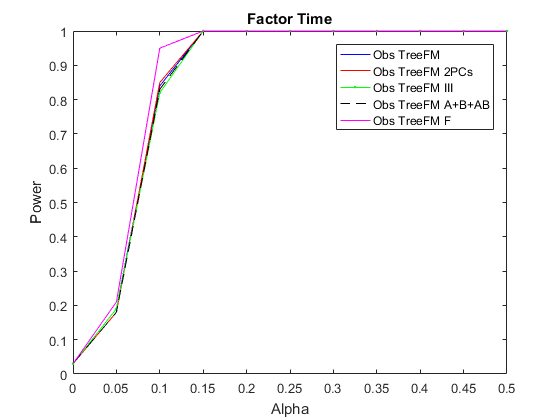
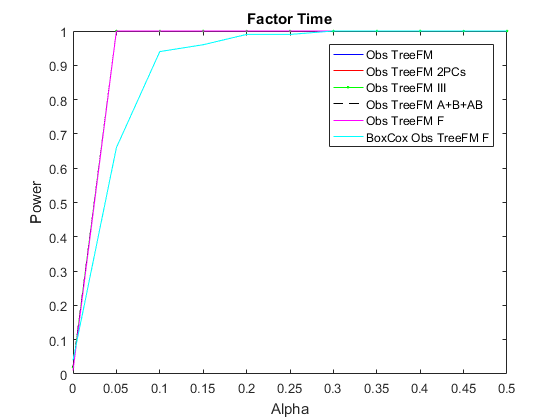
All computations finished

Changed region(s): [[0.1214, 0.0619, 0.3946, 0.8667], [0.425, 0.0619, 0.9107, 0.3405], [0.5768, 0.1238, 0.6071, 0.3095]]

diff --git a/html/CreatePlot.html b/html/CreatePlot.html
@@ -6,7 +6,7 @@
    <!--
 This HTML was auto-generated from MATLAB code.
 To make changes, update the MATLAB code and republish this document.
-      --><title>Plot of figures</title><meta name="generator" content="MATLAB 9.1"><link rel="schema.DC" href="http://purl.org/dc/elements/1.1/"><meta name="DC.date" content="2023-06-07"><meta name="DC.source" content="CreatePlot.m"><style type="text/css">
+      --><title>Plot of figures: uniform distribution</title><meta name="generator" content="MATLAB 9.1"><link rel="schema.DC" href="http://purl.org/dc/elements/1.1/"><meta name="DC.date" content="2023-07-04"><meta name="DC.source" content="CreatePlot.m"><style type="text/css">
 html,body,div,span,applet,object,iframe,h1,h2,h3,h4,h5,h6,p,blockquote,pre,a,abbr,acronym,address,big,cite,code,del,dfn,em,font,img,ins,kbd,q,s,samp,small,strike,strong,sub,sup,tt,var,b,u,i,center,dl,dt,dd,ol,ul,li,fieldset,form,label,legend,table,caption,tbody,tfoot,thead,tr,th,td{margin:0;padding:0;border:0;outline:0;font-size:100%;vertical-align:baseline;background:transparent}body{line-height:1}ol,ul{list-style:none}blockquote,q{quotes:none}blockquote:before,blockquote:after,q:before,q:after{content:'';content:none}:focus{outine:0}ins{text-decoration:none}del{text-decoration:line-through}table{border-collapse:collapse;border-spacing:0}
 
 html { min-height:100%; margin-bottom:1px; }
@@ -66,99 +66,99 @@ table td { padding:7px 5px; text-align:left; vertical-align:top; border:1px soli
 
 
 
-  </style></head><body><div class="content"><h1>Plot of figures</h1><!--introduction--><p>coded by: Jose Camacho Paez (<a href="mailto:josecamacho@ugr.es">josecamacho@ugr.es</a>) last modification: 05/Jun/2023</p><p>Copyright (C) 2023  University of Granada, Granada Copyright (C) 2023  Jose Camacho Paez</p><p>This program is free software: you can redistribute it and/or modify it under the terms of the GNU General Public License as published by the Free Software Foundation, either version 3 of the License, or (at your option) any later version.</p><p>This program is distributed in the hope that it will be useful, but WITHOUT ANY WARRANTY; without even the implied warranty of MERCHANTABILITY or FITNESS FOR A PARTICULAR PURPOSE.  See the GNU General Public License for more details.</p><p>You should have received a copy of the GNU General Public License along with this program.  If not, see <a href="http://www.gnu.org/licenses/">http://www.gnu.org/licenses/</a>.</p><!--/introduction--><h2>Contents</h2><div><ul><li><a href="#1">TN.xlsx</a></li><li><a href="#2">LB.xlsx</a></li><li><a href="#3">TN_balanced</a></li></ul></div><h2 id="1">TN.xlsx</h2><pre class="codeinput">load <span class="string">random_e1</span> <span class="string">e</span> <span class="string">alpha</span>
+  </style></head><body><div class="content"><h1>Plot of figures: uniform distribution</h1><!--introduction--><p>coded by: Jose Camacho Paez (<a href="mailto:josecamacho@ugr.es">josecamacho@ugr.es</a>) last modification: 05/Jul/2023</p><p>Copyright (C) 2023  University of Granada, Granada Copyright (C) 2023  Jose Camacho Paez</p><p>This program is free software: you can redistribute it and/or modify it under the terms of the GNU General Public License as published by the Free Software Foundation, either version 3 of the License, or (at your option) any later version.</p><p>This program is distributed in the hope that it will be useful, but WITHOUT ANY WARRANTY; without even the implied warranty of MERCHANTABILITY or FITNESS FOR A PARTICULAR PURPOSE.  See the GNU General Public License for more details.</p><p>You should have received a copy of the GNU General Public License along with this program.  If not, see <a href="http://www.gnu.org/licenses/">http://www.gnu.org/licenses/</a>.</p><!--/introduction--><h2>Contents</h2><div><ul><li><a href="#1">TN.xlsx</a></li><li><a href="#2">LB.xlsx</a></li><li><a href="#3">TN_balanced</a></li></ul></div><h2 id="1">TN.xlsx</h2><pre class="codeinput">load <span class="string">random_e1</span> <span class="string">e</span> <span class="string">alpha</span>
 
 <span class="comment">% Compare Interaction</span>
 
 i=1;
-figure, plot(alpha,e(1,:,i),<span class="string">'b'</span>); hold <span class="string">on</span>, plot(alpha,e(2,:,i),<span class="string">'r'</span>); plot(alpha,e(3,:,i),<span class="string">'g.-'</span>); plot(alpha,e(4,:,i),<span class="string">'k--'</span>); plot(alpha,e(5,:,i),<span class="string">'m'</span>);
+figure, plot(alpha,e(1,:,i),<span class="string">'b'</span>); hold <span class="string">on</span>, plot(alpha,e(2,:,i),<span class="string">'r'</span>); plot(alpha,e(3,:,i),<span class="string">'g.-'</span>); plot(alpha,e(4,:,i),<span class="string">'k--'</span>); plot(alpha,e(5,:,i),<span class="string">'m'</span>); plot(alpha,e(6,:,i),<span class="string">'c'</span>);
 xlabel(<span class="string">'Alpha'</span>),ylabel(<span class="string">'Power'</span>),title(<span class="string">'Interaction Time x Class'</span>)
-legend(<span class="string">'Obs TreeFM'</span>,<span class="string">'Obs TreeFM 2PCs'</span>,<span class="string">'Obs TreeFM III'</span>,<span class="string">'Obs TreeFM A+B+AB'</span>,<span class="string">'Obs TreeFM F'</span>)
+ legend(<span class="string">'Obs TreeFM'</span>,<span class="string">'Obs TreeFM 2PCs'</span>,<span class="string">'Obs TreeFM III'</span>,<span class="string">'Obs TreeFM A+B+AB'</span>,<span class="string">'Obs TreeFM F'</span>,<span class="string">'BoxCox Obs TreeFM F'</span>)
 
 <span class="comment">% Compare time</span>
 
 i=2;
-figure, plot(alpha,e(1,:,i),<span class="string">'b'</span>); hold <span class="string">on</span>, plot(alpha,e(2,:,i),<span class="string">'r'</span>); plot(alpha,e(3,:,i),<span class="string">'g.-'</span>); plot(alpha,e(4,:,i),<span class="string">'k--'</span>); plot(alpha,e(5,:,i),<span class="string">'m'</span>);
+figure, plot(alpha,e(1,:,i),<span class="string">'b'</span>); hold <span class="string">on</span>, plot(alpha,e(2,:,i),<span class="string">'r'</span>); plot(alpha,e(3,:,i),<span class="string">'g.-'</span>); plot(alpha,e(4,:,i),<span class="string">'k--'</span>); plot(alpha,e(5,:,i),<span class="string">'m'</span>); plot(alpha,e(6,:,i),<span class="string">'c'</span>);
 xlabel(<span class="string">'Alpha'</span>),ylabel(<span class="string">'Power'</span>),title(<span class="string">'Factor Time'</span>)
-legend(<span class="string">'Obs TreeFM'</span>,<span class="string">'Obs TreeFM 2PCs'</span>,<span class="string">'Obs TreeFM III'</span>,<span class="string">'Obs TreeFM A+B+AB'</span>,<span class="string">'Obs TreeFM F'</span>)
+ legend(<span class="string">'Obs TreeFM'</span>,<span class="string">'Obs TreeFM 2PCs'</span>,<span class="string">'Obs TreeFM III'</span>,<span class="string">'Obs TreeFM A+B+AB'</span>,<span class="string">'Obs TreeFM F'</span>,<span class="string">'BoxCox Obs TreeFM F'</span>)
 
 <span class="comment">% Compare class</span>
 
 i=3;
-figure, plot(alpha,e(1,:,i),<span class="string">'b'</span>); hold <span class="string">on</span>, plot(alpha,e(2,:,i),<span class="string">'r'</span>); plot(alpha,e(3,:,i),<span class="string">'g.-'</span>); plot(alpha,e(4,:,i),<span class="string">'k--'</span>); plot(alpha,e(5,:,i),<span class="string">'m'</span>);
+figure, plot(alpha,e(1,:,i),<span class="string">'b'</span>); hold <span class="string">on</span>, plot(alpha,e(2,:,i),<span class="string">'r'</span>); plot(alpha,e(3,:,i),<span class="string">'g.-'</span>); plot(alpha,e(4,:,i),<span class="string">'k--'</span>); plot(alpha,e(5,:,i),<span class="string">'m'</span>); plot(alpha,e(6,:,i),<span class="string">'c'</span>);
 xlabel(<span class="string">'Alpha'</span>),ylabel(<span class="string">'Power'</span>),title(<span class="string">'Factor Class'</span>)
-legend(<span class="string">'Obs TreeFM'</span>,<span class="string">'Obs TreeFM 2PCs'</span>,<span class="string">'Obs TreeFM III'</span>,<span class="string">'Obs TreeFM A+B+AB'</span>,<span class="string">'Obs TreeFM F'</span>)
+ legend(<span class="string">'Obs TreeFM'</span>,<span class="string">'Obs TreeFM 2PCs'</span>,<span class="string">'Obs TreeFM III'</span>,<span class="string">'Obs TreeFM A+B+AB'</span>,<span class="string">'Obs TreeFM F'</span>,<span class="string">'BoxCox Obs TreeFM F'</span>)
 
 <span class="comment">% Compare individual</span>
 
 i=4;
-figure, plot(alpha,e(1,:,i),<span class="string">'b'</span>); hold <span class="string">on</span>, plot(alpha,e(2,:,i),<span class="string">'r'</span>); plot(alpha,e(3,:,i),<span class="string">'g.-'</span>); plot(alpha,e(4,:,i),<span class="string">'k--'</span>); plot(alpha,e(5,:,i),<span class="string">'m'</span>);
+figure, plot(alpha,e(1,:,i),<span class="string">'b'</span>); hold <span class="string">on</span>, plot(alpha,e(2,:,i),<span class="string">'r'</span>); plot(alpha,e(3,:,i),<span class="string">'g.-'</span>); plot(alpha,e(4,:,i),<span class="string">'k--'</span>); plot(alpha,e(5,:,i),<span class="string">'m'</span>); plot(alpha,e(6,:,i),<span class="string">'c'</span>);
 xlabel(<span class="string">'Alpha'</span>),ylabel(<span class="string">'Power'</span>),title(<span class="string">'Factor Individual'</span>)
-legend(<span class="string">'Obs TreeFM'</span>,<span class="string">'Obs TreeFM 2PCs'</span>,<span class="string">'Obs TreeFM III'</span>,<span class="string">'Obs TreeFM A+B+AB'</span>,<span class="string">'Obs TreeFM F'</span>)
+ legend(<span class="string">'Obs TreeFM'</span>,<span class="string">'Obs TreeFM 2PCs'</span>,<span class="string">'Obs TreeFM III'</span>,<span class="string">'Obs TreeFM A+B+AB'</span>,<span class="string">'Obs TreeFM F'</span>,<span class="string">'BoxCox Obs TreeFM F'</span>)
 </pre><img vspace="5" hspace="5" src="CreatePlot_01.png" alt=""> <img vspace="5" hspace="5" src="CreatePlot_02.png" alt=""> <img vspace="5" hspace="5" src="CreatePlot_03.png" alt=""> <img vspace="5" hspace="5" src="CreatePlot_04.png" alt=""> <h2 id="2">LB.xlsx</h2><pre class="codeinput">load <span class="string">random_e2</span> <span class="string">e</span> <span class="string">alpha</span>
 
 <span class="comment">% Compare Interaction</span>
 
 i=1;
-figure, plot(alpha,e(1,:,i),<span class="string">'b'</span>); hold <span class="string">on</span>, plot(alpha,e(2,:,i),<span class="string">'r'</span>); plot(alpha,e(3,:,i),<span class="string">'g.-'</span>); plot(alpha,e(4,:,i),<span class="string">'k--'</span>); plot(alpha,e(5,:,i),<span class="string">'m'</span>);
+figure, plot(alpha,e(1,:,i),<span class="string">'b'</span>); hold <span class="string">on</span>, plot(alpha,e(2,:,i),<span class="string">'r'</span>); plot(alpha,e(3,:,i),<span class="string">'g.-'</span>); plot(alpha,e(4,:,i),<span class="string">'k--'</span>); plot(alpha,e(5,:,i),<span class="string">'m'</span>); plot(alpha,e(6,:,i),<span class="string">'c'</span>);
 xlabel(<span class="string">'Alpha'</span>),ylabel(<span class="string">'Power'</span>),title(<span class="string">'Interaction Time x Class'</span>)
-legend(<span class="string">'Obs TreeFM'</span>,<span class="string">'Obs TreeFM 2PCs'</span>,<span class="string">'Obs TreeFM III'</span>,<span class="string">'Obs TreeFM A+B+AB'</span>,<span class="string">'Obs TreeFM F'</span>)
+ legend(<span class="string">'Obs TreeFM'</span>,<span class="string">'Obs TreeFM 2PCs'</span>,<span class="string">'Obs TreeFM III'</span>,<span class="string">'Obs TreeFM A+B+AB'</span>,<span class="string">'Obs TreeFM F'</span>,<span class="string">'BoxCox Obs TreeFM F'</span>)
 
 <span class="comment">% Compare time</span>
 
 i=2;
-figure, plot(alpha,e(1,:,i),<span class="string">'b'</span>); hold <span class="string">on</span>, plot(alpha,e(2,:,i),<span class="string">'r'</span>); plot(alpha,e(3,:,i),<span class="string">'g.-'</span>); plot(alpha,e(4,:,i),<span class="string">'k--'</span>); plot(alpha,e(5,:,i),<span class="string">'m'</span>);
+figure, plot(alpha,e(1,:,i),<span class="string">'b'</span>); hold <span class="string">on</span>, plot(alpha,e(2,:,i),<span class="string">'r'</span>); plot(alpha,e(3,:,i),<span class="string">'g.-'</span>); plot(alpha,e(4,:,i),<span class="string">'k--'</span>); plot(alpha,e(5,:,i),<span class="string">'m'</span>); plot(alpha,e(6,:,i),<span class="string">'c'</span>);
 xlabel(<span class="string">'Alpha'</span>),ylabel(<span class="string">'Power'</span>),title(<span class="string">'Factor Time'</span>)
-legend(<span class="string">'Obs TreeFM'</span>,<span class="string">'Obs TreeFM 2PCs'</span>,<span class="string">'Obs TreeFM III'</span>,<span class="string">'Obs TreeFM A+B+AB'</span>,<span class="string">'Obs TreeFM F'</span>)
+ legend(<span class="string">'Obs TreeFM'</span>,<span class="string">'Obs TreeFM 2PCs'</span>,<span class="string">'Obs TreeFM III'</span>,<span class="string">'Obs TreeFM A+B+AB'</span>,<span class="string">'Obs TreeFM F'</span>,<span class="string">'BoxCox Obs TreeFM F'</span>)
 
 <span class="comment">% Compare class</span>
 
 i=3;
-figure, plot(alpha,e(1,:,i),<span class="string">'b'</span>); hold <span class="string">on</span>, plot(alpha,e(2,:,i),<span class="string">'r'</span>); plot(alpha,e(3,:,i),<span class="string">'g.-'</span>); plot(alpha,e(4,:,i),<span class="string">'k--'</span>); plot(alpha,e(5,:,i),<span class="string">'m'</span>);
+figure, plot(alpha,e(1,:,i),<span class="string">'b'</span>); hold <span class="string">on</span>, plot(alpha,e(2,:,i),<span class="string">'r'</span>); plot(alpha,e(3,:,i),<span class="string">'g.-'</span>); plot(alpha,e(4,:,i),<span class="string">'k--'</span>); plot(alpha,e(5,:,i),<span class="string">'m'</span>); plot(alpha,e(6,:,i),<span class="string">'c'</span>);
 xlabel(<span class="string">'Alpha'</span>),ylabel(<span class="string">'Power'</span>),title(<span class="string">'Factor Class'</span>)
-legend(<span class="string">'Obs TreeFM'</span>,<span class="string">'Obs TreeFM 2PCs'</span>,<span class="string">'Obs TreeFM III'</span>,<span class="string">'Obs TreeFM A+B+AB'</span>,<span class="string">'Obs TreeFM F'</span>)
+ legend(<span class="string">'Obs TreeFM'</span>,<span class="string">'Obs TreeFM 2PCs'</span>,<span class="string">'Obs TreeFM III'</span>,<span class="string">'Obs TreeFM A+B+AB'</span>,<span class="string">'Obs TreeFM F'</span>,<span class="string">'BoxCox Obs TreeFM F'</span>)
 
 <span class="comment">% Compare individual</span>
 
 i=4;
-figure, plot(alpha,e(1,:,i),<span class="string">'b'</span>); hold <span class="string">on</span>, plot(alpha,e(2,:,i),<span class="string">'r'</span>); plot(alpha,e(3,:,i),<span class="string">'g.-'</span>); plot(alpha,e(4,:,i),<span class="string">'k--'</span>); plot(alpha,e(5,:,i),<span class="string">'m'</span>);
+figure, plot(alpha,e(1,:,i),<span class="string">'b'</span>); hold <span class="string">on</span>, plot(alpha,e(2,:,i),<span class="string">'r'</span>); plot(alpha,e(3,:,i),<span class="string">'g.-'</span>); plot(alpha,e(4,:,i),<span class="string">'k--'</span>); plot(alpha,e(5,:,i),<span class="string">'m'</span>); plot(alpha,e(6,:,i),<span class="string">'c'</span>);
 xlabel(<span class="string">'Alpha'</span>),ylabel(<span class="string">'Power'</span>),title(<span class="string">'Factor Individual'</span>)
-legend(<span class="string">'Obs TreeFM'</span>,<span class="string">'Obs TreeFM 2PCs'</span>,<span class="string">'Obs TreeFM III'</span>,<span class="string">'Obs TreeFM A+B+AB'</span>,<span class="string">'Obs TreeFM F'</span>)
+ legend(<span class="string">'Obs TreeFM'</span>,<span class="string">'Obs TreeFM 2PCs'</span>,<span class="string">'Obs TreeFM III'</span>,<span class="string">'Obs TreeFM A+B+AB'</span>,<span class="string">'Obs TreeFM F'</span>,<span class="string">'BoxCox Obs TreeFM F'</span>)
 </pre><img vspace="5" hspace="5" src="CreatePlot_05.png" alt=""> <img vspace="5" hspace="5" src="CreatePlot_06.png" alt=""> <img vspace="5" hspace="5" src="CreatePlot_07.png" alt=""> <img vspace="5" hspace="5" src="CreatePlot_08.png" alt=""> <h2 id="3">TN_balanced</h2><pre class="codeinput">load <span class="string">random_e3</span> <span class="string">e</span> <span class="string">alpha</span>
 
 <span class="comment">% Compare Interaction</span>
 
 i=1;
-figure, plot(alpha,e(1,:,i),<span class="string">'b'</span>); hold <span class="string">on</span>, plot(alpha,e(2,:,i),<span class="string">'r'</span>); plot(alpha,e(3,:,i),<span class="string">'g.-'</span>); plot(alpha,e(4,:,i),<span class="string">'k--'</span>); plot(alpha,e(5,:,i),<span class="string">'m'</span>);
+figure, plot(alpha,e(1,:,i),<span class="string">'b'</span>); hold <span class="string">on</span>, plot(alpha,e(2,:,i),<span class="string">'r'</span>); plot(alpha,e(3,:,i),<span class="string">'g.-'</span>); plot(alpha,e(4,:,i),<span class="string">'k--'</span>); plot(alpha,e(5,:,i),<span class="string">'m'</span>); plot(alpha,e(6,:,i),<span class="string">'c'</span>);
 xlabel(<span class="string">'Alpha'</span>),ylabel(<span class="string">'Power'</span>),title(<span class="string">'Interaction Time x Class'</span>)
-legend(<span class="string">'Obs TreeFM'</span>,<span class="string">'Obs TreeFM 2PCs'</span>,<span class="string">'Obs TreeFM III'</span>,<span class="string">'Obs TreeFM A+B+AB'</span>,<span class="string">'Obs TreeFM F'</span>)
+ legend(<span class="string">'Obs TreeFM'</span>,<span class="string">'Obs TreeFM 2PCs'</span>,<span class="string">'Obs TreeFM III'</span>,<span class="string">'Obs TreeFM A+B+AB'</span>,<span class="string">'Obs TreeFM F'</span>,<span class="string">'BoxCox Obs TreeFM F'</span>)
 
 <span class="comment">% Compare time</span>
 
 i=2;
-figure, plot(alpha,e(1,:,i),<span class="string">'b'</span>); hold <span class="string">on</span>, plot(alpha,e(2,:,i),<span class="string">'r'</span>); plot(alpha,e(3,:,i),<span class="string">'g.-'</span>); plot(alpha,e(4,:,i),<span class="string">'k--'</span>); plot(alpha,e(5,:,i),<span class="string">'m'</span>);
+figure, plot(alpha,e(1,:,i),<span class="string">'b'</span>); hold <span class="string">on</span>, plot(alpha,e(2,:,i),<span class="string">'r'</span>); plot(alpha,e(3,:,i),<span class="string">'g.-'</span>); plot(alpha,e(4,:,i),<span class="string">'k--'</span>); plot(alpha,e(5,:,i),<span class="string">'m'</span>); plot(alpha,e(6,:,i),<span class="string">'c'</span>);
 xlabel(<span class="string">'Alpha'</span>),ylabel(<span class="string">'Power'</span>),title(<span class="string">'Factor Time'</span>)
-legend(<span class="string">'Obs TreeFM'</span>,<span class="string">'Obs TreeFM 2PCs'</span>,<span class="string">'Obs TreeFM III'</span>,<span class="string">'Obs TreeFM A+B+AB'</span>,<span class="string">'Obs TreeFM F'</span>)
+ legend(<span class="string">'Obs TreeFM'</span>,<span class="string">'Obs TreeFM 2PCs'</span>,<span class="string">'Obs TreeFM III'</span>,<span class="string">'Obs TreeFM A+B+AB'</span>,<span class="string">'Obs TreeFM F'</span>,<span class="string">'BoxCox Obs TreeFM F'</span>)
 
 <span class="comment">% Compare class</span>
 
 i=3;
-figure, plot(alpha,e(1,:,i),<span class="string">'b'</span>); hold <span class="string">on</span>, plot(alpha,e(2,:,i),<span class="string">'r'</span>); plot(alpha,e(3,:,i),<span class="string">'g.-'</span>); plot(alpha,e(4,:,i),<span class="string">'k--'</span>); plot(alpha,e(5,:,i),<span class="string">'m'</span>);
+figure, plot(alpha,e(1,:,i),<span class="string">'b'</span>); hold <span class="string">on</span>, plot(alpha,e(2,:,i),<span class="string">'r'</span>); plot(alpha,e(3,:,i),<span class="string">'g.-'</span>); plot(alpha,e(4,:,i),<span class="string">'k--'</span>); plot(alpha,e(5,:,i),<span class="string">'m'</span>); plot(alpha,e(6,:,i),<span class="string">'c'</span>);
 xlabel(<span class="string">'Alpha'</span>),ylabel(<span class="string">'Power'</span>),title(<span class="string">'Factor Class'</span>)
-legend(<span class="string">'Obs TreeFM'</span>,<span class="string">'Obs TreeFM 2PCs'</span>,<span class="string">'Obs TreeFM III'</span>,<span class="string">'Obs TreeFM A+B+AB'</span>,<span class="string">'Obs TreeFM F'</span>)
+ legend(<span class="string">'Obs TreeFM'</span>,<span class="string">'Obs TreeFM 2PCs'</span>,<span class="string">'Obs TreeFM III'</span>,<span class="string">'Obs TreeFM A+B+AB'</span>,<span class="string">'Obs TreeFM F'</span>,<span class="string">'BoxCox Obs TreeFM F'</span>)
 
 <span class="comment">% Compare individual</span>
 
 i=4;
-figure, plot(alpha,e(1,:,i),<span class="string">'b'</span>); hold <span class="string">on</span>, plot(alpha,e(2,:,i),<span class="string">'r'</span>); plot(alpha,e(3,:,i),<span class="string">'g.-'</span>); plot(alpha,e(4,:,i),<span class="string">'k--'</span>); plot(alpha,e(5,:,i),<span class="string">'m'</span>);
+figure, plot(alpha,e(1,:,i),<span class="string">'b'</span>); hold <span class="string">on</span>, plot(alpha,e(2,:,i),<span class="string">'r'</span>); plot(alpha,e(3,:,i),<span class="string">'g.-'</span>); plot(alpha,e(4,:,i),<span class="string">'k--'</span>); plot(alpha,e(5,:,i),<span class="string">'m'</span>); plot(alpha,e(6,:,i),<span class="string">'c'</span>);
 xlabel(<span class="string">'Alpha'</span>),ylabel(<span class="string">'Power'</span>),title(<span class="string">'Factor Individual'</span>)
-legend(<span class="string">'Obs TreeFM'</span>,<span class="string">'Obs TreeFM 2PCs'</span>,<span class="string">'Obs TreeFM III'</span>,<span class="string">'Obs TreeFM A+B+AB'</span>,<span class="string">'Obs TreeFM F'</span>)
+ legend(<span class="string">'Obs TreeFM'</span>,<span class="string">'Obs TreeFM 2PCs'</span>,<span class="string">'Obs TreeFM III'</span>,<span class="string">'Obs TreeFM A+B+AB'</span>,<span class="string">'Obs TreeFM F'</span>,<span class="string">'BoxCox Obs TreeFM F'</span>)
 </pre><img vspace="5" hspace="5" src="CreatePlot_09.png" alt=""> <img vspace="5" hspace="5" src="CreatePlot_10.png" alt=""> <img vspace="5" hspace="5" src="CreatePlot_11.png" alt=""> <img vspace="5" hspace="5" src="CreatePlot_12.png" alt=""> <p class="footer"><br><a href="http://www.mathworks.com/products/matlab/">Published with MATLAB&reg; R2016b</a><br></p></div><!--
 ##### SOURCE BEGIN #####
-%% Plot of figures 
+%% Plot of figures: uniform distribution 
 %
 % coded by: Jose Camacho Paez (josecamacho@ugr.es)
-% last modification: 05/Jun/2023
+% last modification: 05/Jul/2023
 %
 % Copyright (C) 2023  University of Granada, Granada
 % Copyright (C) 2023  Jose Camacho Paez
@@ -183,30 +183,30 @@ load random_e1 e alpha
 % Compare Interaction
 
 i=1;
-figure, plot(alpha,e(1,:,i),'b'); hold on, plot(alpha,e(2,:,i),'r'); plot(alpha,e(3,:,i),'g.-'); plot(alpha,e(4,:,i),'kREPLACE_WITH_DASH_DASH'); plot(alpha,e(5,:,i),'m'); 
+figure, plot(alpha,e(1,:,i),'b'); hold on, plot(alpha,e(2,:,i),'r'); plot(alpha,e(3,:,i),'g.-'); plot(alpha,e(4,:,i),'kREPLACE_WITH_DASH_DASH'); plot(alpha,e(5,:,i),'m'); plot(alpha,e(6,:,i),'c');
 xlabel('Alpha'),ylabel('Power'),title('Interaction Time x Class')
-legend('Obs TreeFM','Obs TreeFM 2PCs','Obs TreeFM III','Obs TreeFM A+B+AB','Obs TreeFM F')
+ legend('Obs TreeFM','Obs TreeFM 2PCs','Obs TreeFM III','Obs TreeFM A+B+AB','Obs TreeFM F','BoxCox Obs TreeFM F')
 
 % Compare time
 
 i=2;
-figure, plot(alpha,e(1,:,i),'b'); hold on, plot(alpha,e(2,:,i),'r'); plot(alpha,e(3,:,i),'g.-'); plot(alpha,e(4,:,i),'kREPLACE_WITH_DASH_DASH'); plot(alpha,e(5,:,i),'m');  
+figure, plot(alpha,e(1,:,i),'b'); hold on, plot(alpha,e(2,:,i),'r'); plot(alpha,e(3,:,i),'g.-'); plot(alpha,e(4,:,i),'kREPLACE_WITH_DASH_DASH'); plot(alpha,e(5,:,i),'m'); plot(alpha,e(6,:,i),'c'); 
 xlabel('Alpha'),ylabel('Power'),title('Factor Time')
-legend('Obs TreeFM','Obs TreeFM 2PCs','Obs TreeFM III','Obs TreeFM A+B+AB','Obs TreeFM F')
+ legend('Obs TreeFM','Obs TreeFM 2PCs','Obs TreeFM III','Obs TreeFM A+B+AB','Obs TreeFM F','BoxCox Obs TreeFM F')
 
 % Compare class
 
 i=3;
-figure, plot(alpha,e(1,:,i),'b'); hold on, plot(alpha,e(2,:,i),'r'); plot(alpha,e(3,:,i),'g.-'); plot(alpha,e(4,:,i),'kREPLACE_WITH_DASH_DASH'); plot(alpha,e(5,:,i),'m');  
+figure, plot(alpha,e(1,:,i),'b'); hold on, plot(alpha,e(2,:,i),'r'); plot(alpha,e(3,:,i),'g.-'); plot(alpha,e(4,:,i),'kREPLACE_WITH_DASH_DASH'); plot(alpha,e(5,:,i),'m'); plot(alpha,e(6,:,i),'c'); 
 xlabel('Alpha'),ylabel('Power'),title('Factor Class')
-legend('Obs TreeFM','Obs TreeFM 2PCs','Obs TreeFM III','Obs TreeFM A+B+AB','Obs TreeFM F')
+ legend('Obs TreeFM','Obs TreeFM 2PCs','Obs TreeFM III','Obs TreeFM A+B+AB','Obs TreeFM F','BoxCox Obs TreeFM F')
 
 % Compare individual
 
 i=4;
-figure, plot(alpha,e(1,:,i),'b'); hold on, plot(alpha,e(2,:,i),'r'); plot(alpha,e(3,:,i),'g.-'); plot(alpha,e(4,:,i),'kREPLACE_WITH_DASH_DASH'); plot(alpha,e(5,:,i),'m'); 
+figure, plot(alpha,e(1,:,i),'b'); hold on, plot(alpha,e(2,:,i),'r'); plot(alpha,e(3,:,i),'g.-'); plot(alpha,e(4,:,i),'kREPLACE_WITH_DASH_DASH'); plot(alpha,e(5,:,i),'m'); plot(alpha,e(6,:,i),'c');
 xlabel('Alpha'),ylabel('Power'),title('Factor Individual')
-legend('Obs TreeFM','Obs TreeFM 2PCs','Obs TreeFM III','Obs TreeFM A+B+AB','Obs TreeFM F')
+ legend('Obs TreeFM','Obs TreeFM 2PCs','Obs TreeFM III','Obs TreeFM A+B+AB','Obs TreeFM F','BoxCox Obs TreeFM F')
 
 %% LB.xlsx
 
@@ -215,30 +215,30 @@ load random_e2 e alpha
 % Compare Interaction
 
 i=1;
-figure, plot(alpha,e(1,:,i),'b'); hold on, plot(alpha,e(2,:,i),'r'); plot(alpha,e(3,:,i),'g.-'); plot(alpha,e(4,:,i),'kREPLACE_WITH_DASH_DASH'); plot(alpha,e(5,:,i),'m'); 
+figure, plot(alpha,e(1,:,i),'b'); hold on, plot(alpha,e(2,:,i),'r'); plot(alpha,e(3,:,i),'g.-'); plot(alpha,e(4,:,i),'kREPLACE_WITH_DASH_DASH'); plot(alpha,e(5,:,i),'m'); plot(alpha,e(6,:,i),'c');
 xlabel('Alpha'),ylabel('Power'),title('Interaction Time x Class')
-legend('Obs TreeFM','Obs TreeFM 2PCs','Obs TreeFM III','Obs TreeFM A+B+AB','Obs TreeFM F')
+ legend('Obs TreeFM','Obs TreeFM 2PCs','Obs TreeFM III','Obs TreeFM A+B+AB','Obs TreeFM F','BoxCox Obs TreeFM F')
 
 % Compare time
 
 i=2;
-figure, plot(alpha,e(1,:,i),'b'); hold on, plot(alpha,e(2,:,i),'r'); plot(alpha,e(3,:,i),'g.-'); plot(alpha,e(4,:,i),'kREPLACE_WITH_DASH_DASH'); plot(alpha,e(5,:,i),'m');  
+figure, plot(alpha,e(1,:,i),'b'); hold on, plot(alpha,e(2,:,i),'r'); plot(alpha,e(3,:,i),'g.-'); plot(alpha,e(4,:,i),'kREPLACE_WITH_DASH_DASH'); plot(alpha,e(5,:,i),'m'); plot(alpha,e(6,:,i),'c'); 
 xlabel('Alpha'),ylabel('Power'),title('Factor Time')
-legend('Obs TreeFM','Obs TreeFM 2PCs','Obs TreeFM III','Obs TreeFM A+B+AB','Obs TreeFM F')
+ legend('Obs TreeFM','Obs TreeFM 2PCs','Obs TreeFM III','Obs TreeFM A+B+AB','Obs TreeFM F','BoxCox Obs TreeFM F')
 
 % Compare class
 
 i=3;
-figure, plot(alpha,e(1,:,i),'b'); hold on, plot(alpha,e(2,:,i),'r'); plot(alpha,e(3,:,i),'g.-'); plot(alpha,e(4,:,i),'kREPLACE_WITH_DASH_DASH'); plot(alpha,e(5,:,i),'m');  
+figure, plot(alpha,e(1,:,i),'b'); hold on, plot(alpha,e(2,:,i),'r'); plot(alpha,e(3,:,i),'g.-'); plot(alpha,e(4,:,i),'kREPLACE_WITH_DASH_DASH'); plot(alpha,e(5,:,i),'m'); plot(alpha,e(6,:,i),'c'); 
 xlabel('Alpha'),ylabel('Power'),title('Factor Class')
-legend('Obs TreeFM','Obs TreeFM 2PCs','Obs TreeFM III','Obs TreeFM A+B+AB','Obs TreeFM F')
+ legend('Obs TreeFM','Obs TreeFM 2PCs','Obs TreeFM III','Obs TreeFM A+B+AB','Obs TreeFM F','BoxCox Obs TreeFM F')
 
 % Compare individual
 
 i=4;
-figure, plot(alpha,e(1,:,i),'b'); hold on, plot(alpha,e(2,:,i),'r'); plot(alpha,e(3,:,i),'g.-'); plot(alpha,e(4,:,i),'kREPLACE_WITH_DASH_DASH'); plot(alpha,e(5,:,i),'m'); 
+figure, plot(alpha,e(1,:,i),'b'); hold on, plot(alpha,e(2,:,i),'r'); plot(alpha,e(3,:,i),'g.-'); plot(alpha,e(4,:,i),'kREPLACE_WITH_DASH_DASH'); plot(alpha,e(5,:,i),'m'); plot(alpha,e(6,:,i),'c');
 xlabel('Alpha'),ylabel('Power'),title('Factor Individual')
-legend('Obs TreeFM','Obs TreeFM 2PCs','Obs TreeFM III','Obs TreeFM A+B+AB','Obs TreeFM F')
+ legend('Obs TreeFM','Obs TreeFM 2PCs','Obs TreeFM III','Obs TreeFM A+B+AB','Obs TreeFM F','BoxCox Obs TreeFM F')
 
 %% TN_balanced
 
@@ -247,29 +247,29 @@ load random_e3 e alpha
 % Compare Interaction
 
 i=1;
-figure, plot(alpha,e(1,:,i),'b'); hold on, plot(alpha,e(2,:,i),'r'); plot(alpha,e(3,:,i),'g.-'); plot(alpha,e(4,:,i),'kREPLACE_WITH_DASH_DASH'); plot(alpha,e(5,:,i),'m'); 
+figure, plot(alpha,e(1,:,i),'b'); hold on, plot(alpha,e(2,:,i),'r'); plot(alpha,e(3,:,i),'g.-'); plot(alpha,e(4,:,i),'kREPLACE_WITH_DASH_DASH'); plot(alpha,e(5,:,i),'m'); plot(alpha,e(6,:,i),'c');
 xlabel('Alpha'),ylabel('Power'),title('Interaction Time x Class')
-legend('Obs TreeFM','Obs TreeFM 2PCs','Obs TreeFM III','Obs TreeFM A+B+AB','Obs TreeFM F')
+ legend('Obs TreeFM','Obs TreeFM 2PCs','Obs TreeFM III','Obs TreeFM A+B+AB','Obs TreeFM F','BoxCox Obs TreeFM F')
 
 % Compare time
 
 i=2;
-figure, plot(alpha,e(1,:,i),'b'); hold on, plot(alpha,e(2,:,i),'r'); plot(alpha,e(3,:,i),'g.-'); plot(alpha,e(4,:,i),'kREPLACE_WITH_DASH_DASH'); plot(alpha,e(5,:,i),'m');  
+figure, plot(alpha,e(1,:,i),'b'); hold on, plot(alpha,e(2,:,i),'r'); plot(alpha,e(3,:,i),'g.-'); plot(alpha,e(4,:,i),'kREPLACE_WITH_DASH_DASH'); plot(alpha,e(5,:,i),'m'); plot(alpha,e(6,:,i),'c'); 
 xlabel('Alpha'),ylabel('Power'),title('Factor Time')
-legend('Obs TreeFM','Obs TreeFM 2PCs','Obs TreeFM III','Obs TreeFM A+B+AB','Obs TreeFM F')
+ legend('Obs TreeFM','Obs TreeFM 2PCs','Obs TreeFM III','Obs TreeFM A+B+AB','Obs TreeFM F','BoxCox Obs TreeFM F')
 
 % Compare class
 
 i=3;
-figure, plot(alpha,e(1,:,i),'b'); hold on, plot(alpha,e(2,:,i),'r'); plot(alpha,e(3,:,i),'g.-'); plot(alpha,e(4,:,i),'kREPLACE_WITH_DASH_DASH'); plot(alpha,e(5,:,i),'m');  
+figure, plot(alpha,e(1,:,i),'b'); hold on, plot(alpha,e(2,:,i),'r'); plot(alpha,e(3,:,i),'g.-'); plot(alpha,e(4,:,i),'kREPLACE_WITH_DASH_DASH'); plot(alpha,e(5,:,i),'m'); plot(alpha,e(6,:,i),'c'); 
 xlabel('Alpha'),ylabel('Power'),title('Factor Class')
-legend('Obs TreeFM','Obs TreeFM 2PCs','Obs TreeFM III','Obs TreeFM A+B+AB','Obs TreeFM F')
+ legend('Obs TreeFM','Obs TreeFM 2PCs','Obs TreeFM III','Obs TreeFM A+B+AB','Obs TreeFM F','BoxCox Obs TreeFM F')
 
 % Compare individual
 
 i=4;
-figure, plot(alpha,e(1,:,i),'b'); hold on, plot(alpha,e(2,:,i),'r'); plot(alpha,e(3,:,i),'g.-'); plot(alpha,e(4,:,i),'kREPLACE_WITH_DASH_DASH'); plot(alpha,e(5,:,i),'m'); 
+figure, plot(alpha,e(1,:,i),'b'); hold on, plot(alpha,e(2,:,i),'r'); plot(alpha,e(3,:,i),'g.-'); plot(alpha,e(4,:,i),'kREPLACE_WITH_DASH_DASH'); plot(alpha,e(5,:,i),'m'); plot(alpha,e(6,:,i),'c');
 xlabel('Alpha'),ylabel('Power'),title('Factor Individual')
-legend('Obs TreeFM','Obs TreeFM 2PCs','Obs TreeFM III','Obs TreeFM A+B+AB','Obs TreeFM F')
+ legend('Obs TreeFM','Obs TreeFM 2PCs','Obs TreeFM III','Obs TreeFM A+B+AB','Obs TreeFM F','BoxCox Obs TreeFM F')
 ##### SOURCE END #####
 --></body></html>

diff --git a/CreatePlot.m b/CreatePlot.m
@@ -1,7 +1,7 @@
-%% Plot of figures: exp^3 distribution 
+%% Plot of figures: uniform distribution 
 %
 % coded by: Jose Camacho Paez (josecamacho@ugr.es)
-% last modification: 05/Jun/2023
+% last modification: 05/Jul/2023
 %
 % Copyright (C) 2023  University of Granada, Granada
 % Copyright (C) 2023  Jose Camacho Paez
@@ -26,30 +26,30 @@ load random_e1 e alpha
 % Compare Interaction
 
 i=1;
-figure, plot(alpha,e(1,:,i),'b'); hold on, plot(alpha,e(2,:,i),'r'); plot(alpha,e(3,:,i),'g.-'); plot(alpha,e(4,:,i),'k--'); plot(alpha,e(5,:,i),'m'); 
+figure, plot(alpha,e(1,:,i),'b'); hold on, plot(alpha,e(2,:,i),'r'); plot(alpha,e(3,:,i),'g.-'); plot(alpha,e(4,:,i),'k--'); plot(alpha,e(5,:,i),'m'); plot(alpha,e(6,:,i),'c');
 xlabel('Alpha'),ylabel('Power'),title('Interaction Time x Class')
-legend('Obs TreeFM','Obs TreeFM 2PCs','Obs TreeFM III','Obs TreeFM A+B+AB','Obs TreeFM F')
+ legend('Obs TreeFM','Obs TreeFM 2PCs','Obs TreeFM III','Obs TreeFM A+B+AB','Obs TreeFM F','BoxCox Obs TreeFM F')
 
 % Compare time
 
 i=2;
-figure, plot(alpha,e(1,:,i),'b'); hold on, plot(alpha,e(2,:,i),'r'); plot(alpha,e(3,:,i),'g.-'); plot(alpha,e(4,:,i),'k--'); plot(alpha,e(5,:,i),'m');  
+figure, plot(alpha,e(1,:,i),'b'); hold on, plot(alpha,e(2,:,i),'r'); plot(alpha,e(3,:,i),'g.-'); plot(alpha,e(4,:,i),'k--'); plot(alpha,e(5,:,i),'m'); plot(alpha,e(6,:,i),'c'); 
 xlabel('Alpha'),ylabel('Power'),title('Factor Time')
-legend('Obs TreeFM','Obs TreeFM 2PCs','Obs TreeFM III','Obs TreeFM A+B+AB','Obs TreeFM F')
+ legend('Obs TreeFM','Obs TreeFM 2PCs','Obs TreeFM III','Obs TreeFM A+B+AB','Obs TreeFM F','BoxCox Obs TreeFM F')
 
 % Compare class
 
 i=3;
-figure, plot(alpha,e(1,:,i),'b'); hold on, plot(alpha,e(2,:,i),'r'); plot(alpha,e(3,:,i),'g.-'); plot(alpha,e(4,:,i),'k--'); plot(alpha,e(5,:,i),'m');  
+figure, plot(alpha,e(1,:,i),'b'); hold on, plot(alpha,e(2,:,i),'r'); plot(alpha,e(3,:,i),'g.-'); plot(alpha,e(4,:,i),'k--'); plot(alpha,e(5,:,i),'m'); plot(alpha,e(6,:,i),'c'); 
 xlabel('Alpha'),ylabel('Power'),title('Factor Class')
-legend('Obs TreeFM','Obs TreeFM 2PCs','Obs TreeFM III','Obs TreeFM A+B+AB','Obs TreeFM F')
+ legend('Obs TreeFM','Obs TreeFM 2PCs','Obs TreeFM III','Obs TreeFM A+B+AB','Obs TreeFM F','BoxCox Obs TreeFM F')
 
 % Compare individual
 
 i=4;
-figure, plot(alpha,e(1,:,i),'b'); hold on, plot(alpha,e(2,:,i),'r'); plot(alpha,e(3,:,i),'g.-'); plot(alpha,e(4,:,i),'k--'); plot(alpha,e(5,:,i),'m'); 
+figure, plot(alpha,e(1,:,i),'b'); hold on, plot(alpha,e(2,:,i),'r'); plot(alpha,e(3,:,i),'g.-'); plot(alpha,e(4,:,i),'k--'); plot(alpha,e(5,:,i),'m'); plot(alpha,e(6,:,i),'c');
 xlabel('Alpha'),ylabel('Power'),title('Factor Individual')
-legend('Obs TreeFM','Obs TreeFM 2PCs','Obs TreeFM III','Obs TreeFM A+B+AB','Obs TreeFM F')
+ legend('Obs TreeFM','Obs TreeFM 2PCs','Obs TreeFM III','Obs TreeFM A+B+AB','Obs TreeFM F','BoxCox Obs TreeFM F')
 
 %% LB.xlsx
 
@@ -58,30 +58,30 @@ load random_e2 e alpha
 % Compare Interaction
 
 i=1;
-figure, plot(alpha,e(1,:,i),'b'); hold on, plot(alpha,e(2,:,i),'r'); plot(alpha,e(3,:,i),'g.-'); plot(alpha,e(4,:,i),'k--'); plot(alpha,e(5,:,i),'m'); 
+figure, plot(alpha,e(1,:,i),'b'); hold on, plot(alpha,e(2,:,i),'r'); plot(alpha,e(3,:,i),'g.-'); plot(alpha,e(4,:,i),'k--'); plot(alpha,e(5,:,i),'m'); plot(alpha,e(6,:,i),'c');
 xlabel('Alpha'),ylabel('Power'),title('Interaction Time x Class')
-legend('Obs TreeFM','Obs TreeFM 2PCs','Obs TreeFM III','Obs TreeFM A+B+AB','Obs TreeFM F')
+ legend('Obs TreeFM','Obs TreeFM 2PCs','Obs TreeFM III','Obs TreeFM A+B+AB','Obs TreeFM F','BoxCox Obs TreeFM F')
 
 % Compare time
 
 i=2;
-figure, plot(alpha,e(1,:,i),'b'); hold on, plot(alpha,e(2,:,i),'r'); plot(alpha,e(3,:,i),'g.-'); plot(alpha,e(4,:,i),'k--'); plot(alpha,e(5,:,i),'m');  
+figure, plot(alpha,e(1,:,i),'b'); hold on, plot(alpha,e(2,:,i),'r'); plot(alpha,e(3,:,i),'g.-'); plot(alpha,e(4,:,i),'k--'); plot(alpha,e(5,:,i),'m'); plot(alpha,e(6,:,i),'c'); 
 xlabel('Alpha'),ylabel('Power'),title('Factor Time')
-legend('Obs TreeFM','Obs TreeFM 2PCs','Obs TreeFM III','Obs TreeFM A+B+AB','Obs TreeFM F')
+ legend('Obs TreeFM','Obs TreeFM 2PCs','Obs TreeFM III','Obs TreeFM A+B+AB','Obs TreeFM F','BoxCox Obs TreeFM F')
 
 % Compare class
 
 i=3;
-figure, plot(alpha,e(1,:,i),'b'); hold on, plot(alpha,e(2,:,i),'r'); plot(alpha,e(3,:,i),'g.-'); plot(alpha,e(4,:,i),'k--'); plot(alpha,e(5,:,i),'m');  
+figure, plot(alpha,e(1,:,i),'b'); hold on, plot(alpha,e(2,:,i),'r'); plot(alpha,e(3,:,i),'g.-'); plot(alpha,e(4,:,i),'k--'); plot(alpha,e(5,:,i),'m'); plot(alpha,e(6,:,i),'c'); 
 xlabel('Alpha'),ylabel('Power'),title('Factor Class')
-legend('Obs TreeFM','Obs TreeFM 2PCs','Obs TreeFM III','Obs TreeFM A+B+AB','Obs TreeFM F')
+ legend('Obs TreeFM','Obs TreeFM 2PCs','Obs TreeFM III','Obs TreeFM A+B+AB','Obs TreeFM F','BoxCox Obs TreeFM F')
 
 % Compare individual
 
 i=4;
-figure, plot(alpha,e(1,:,i),'b'); hold on, plot(alpha,e(2,:,i),'r'); plot(alpha,e(3,:,i),'g.-'); plot(alpha,e(4,:,i),'k--'); plot(alpha,e(5,:,i),'m'); 
+figure, plot(alpha,e(1,:,i),'b'); hold on, plot(alpha,e(2,:,i),'r'); plot(alpha,e(3,:,i),'g.-'); plot(alpha,e(4,:,i),'k--'); plot(alpha,e(5,:,i),'m'); plot(alpha,e(6,:,i),'c');
 xlabel('Alpha'),ylabel('Power'),title('Factor Individual')
-legend('Obs TreeFM','Obs TreeFM 2PCs','Obs TreeFM III','Obs TreeFM A+B+AB','Obs TreeFM F')
+ legend('Obs TreeFM','Obs TreeFM 2PCs','Obs TreeFM III','Obs TreeFM A+B+AB','Obs TreeFM F','BoxCox Obs TreeFM F')
 
 %% TN_balanced
 
@@ -90,27 +90,27 @@ load random_e3 e alpha
 % Compare Interaction
 
 i=1;
-figure, plot(alpha,e(1,:,i),'b'); hold on, plot(alpha,e(2,:,i),'r'); plot(alpha,e(3,:,i),'g.-'); plot(alpha,e(4,:,i),'k--'); plot(alpha,e(5,:,i),'m'); 
+figure, plot(alpha,e(1,:,i),'b'); hold on, plot(alpha,e(2,:,i),'r'); plot(alpha,e(3,:,i),'g.-'); plot(alpha,e(4,:,i),'k--'); plot(alpha,e(5,:,i),'m'); plot(alpha,e(6,:,i),'c');
 xlabel('Alpha'),ylabel('Power'),title('Interaction Time x Class')
-legend('Obs TreeFM','Obs TreeFM 2PCs','Obs TreeFM III','Obs TreeFM A+B+AB','Obs TreeFM F')
+ legend('Obs TreeFM','Obs TreeFM 2PCs','Obs TreeFM III','Obs TreeFM A+B+AB','Obs TreeFM F','BoxCox Obs TreeFM F')
 
 % Compare time
 
 i=2;
-figure, plot(alpha,e(1,:,i),'b'); hold on, plot(alpha,e(2,:,i),'r'); plot(alpha,e(3,:,i),'g.-'); plot(alpha,e(4,:,i),'k--'); plot(alpha,e(5,:,i),'m');  
+figure, plot(alpha,e(1,:,i),'b'); hold on, plot(alpha,e(2,:,i),'r'); plot(alpha,e(3,:,i),'g.-'); plot(alpha,e(4,:,i),'k--'); plot(alpha,e(5,:,i),'m'); plot(alpha,e(6,:,i),'c'); 
 xlabel('Alpha'),ylabel('Power'),title('Factor Time')
-legend('Obs TreeFM','Obs TreeFM 2PCs','Obs TreeFM III','Obs TreeFM A+B+AB','Obs TreeFM F')
+ legend('Obs TreeFM','Obs TreeFM 2PCs','Obs TreeFM III','Obs TreeFM A+B+AB','Obs TreeFM F','BoxCox Obs TreeFM F')
 
 % Compare class
 
 i=3;
-figure, plot(alpha,e(1,:,i),'b'); hold on, plot(alpha,e(2,:,i),'r'); plot(alpha,e(3,:,i),'g.-'); plot(alpha,e(4,:,i),'k--'); plot(alpha,e(5,:,i),'m');  
+figure, plot(alpha,e(1,:,i),'b'); hold on, plot(alpha,e(2,:,i),'r'); plot(alpha,e(3,:,i),'g.-'); plot(alpha,e(4,:,i),'k--'); plot(alpha,e(5,:,i),'m'); plot(alpha,e(6,:,i),'c'); 
 xlabel('Alpha'),ylabel('Power'),title('Factor Class')
-legend('Obs TreeFM','Obs TreeFM 2PCs','Obs TreeFM III','Obs TreeFM A+B+AB','Obs TreeFM F')
+ legend('Obs TreeFM','Obs TreeFM 2PCs','Obs TreeFM III','Obs TreeFM A+B+AB','Obs TreeFM F','BoxCox Obs TreeFM F')
 
 % Compare individual
 
 i=4;
-figure, plot(alpha,e(1,:,i),'b'); hold on, plot(alpha,e(2,:,i),'r'); plot(alpha,e(3,:,i),'g.-'); plot(alpha,e(4,:,i),'k--'); plot(alpha,e(5,:,i),'m'); 
+figure, plot(alpha,e(1,:,i),'b'); hold on, plot(alpha,e(2,:,i),'r'); plot(alpha,e(3,:,i),'g.-'); plot(alpha,e(4,:,i),'k--'); plot(alpha,e(5,:,i),'m'); plot(alpha,e(6,:,i),'c');
 xlabel('Alpha'),ylabel('Power'),title('Factor Individual')
-legend('Obs TreeFM','Obs TreeFM 2PCs','Obs TreeFM III','Obs TreeFM A+B+AB','Obs TreeFM F')
+ legend('Obs TreeFM','Obs TreeFM 2PCs','Obs TreeFM III','Obs TreeFM A+B+AB','Obs TreeFM F','BoxCox Obs TreeFM F')

diff --git a/PowerCurves_UncRaw.m b/PowerCurves_UncRaw.m
@@ -1,6 +1,5 @@
 %% Computiation of Power Curves for unconstrained permutations on raw 
-% observations, residuals follow an exponential distribution whose values
-% were then cubed.
+% observations, residuals follow a uniform distribution.
 % 
 % Experimental Design: X = m + A + B + AB + C(A) 
 % where: 
@@ -99,7 +98,7 @@ for i2=1:perm_tot
     end
     
     %Xnoise = randn(length(obs_l),length(var_l));
-    Xnoise = exprnd(1,length(obs_l),length(var_l)).^3; % This is the only change in this branch (same in all subfolders)
+    Xnoise = rand(length(obs_l),length(var_l)); % This is the only change in this branch
     Xnoise = Xnoise/norm(Xnoise);
 
     for a = 1:length(alpha)
